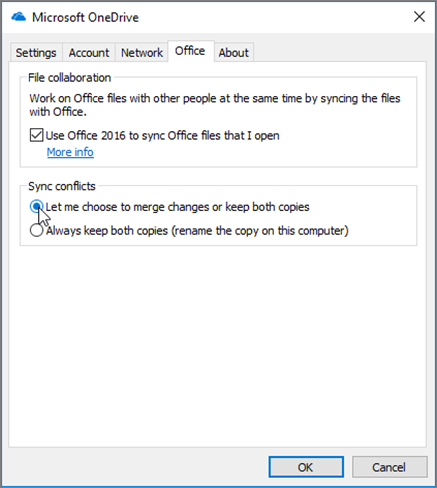
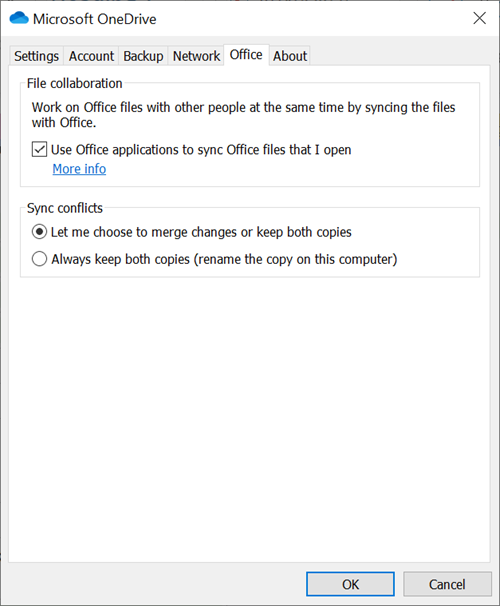
Updated screenshot

Changed region(s): [[0.0, 0.0, 1.0, 1.0]]

diff --git a/OneDrive/use-group-policy.md b/OneDrive/use-group-policy.md
@@ -543,7 +543,7 @@ This setting specifies what happens when conflicts occur between Office file ver
  
 If you enable this setting, users can decide if they want to merge changes or keep both copies. Users can also configure the sync app to always fork the file and keep both copies, as follows.
   
-![The Office tab of the Sync settings dialog](media/ec60b062-1979-446d-b431-bf0baede0f8b.png)
+![The Office tab in OneDrive sync app settings](media/ec60b062-1979-446d-b431-bf0baede0f8b.png)
   
 Enabling this policy sets the following registry key value to 1:
   
@@ -551,7 +551,7 @@ Enabling this policy sets the following registry key value to 1:
 
 If you disable this setting, the Sync conflicts setting on the Office tab is disabled, and when a sync conflict occurs, both copies of the file are kept.
   
-To enable this setting, you must enable [Coauthor and share in Office desktop apps](use-group-policy.md#coauthor-and-share-in-office-desktop-apps). For more info about the Office settings in the sync app, see [Use Office 2016 to sync Office files that I open](https://support.office.com/article/8a409b0c-ebe1-4bfa-a08e-998389a9d823).
+To enable this setting, you must enable [Coauthor and share in Office desktop apps](use-group-policy.md#coauthor-and-share-in-office-desktop-apps). For more info about the Office settings in the sync app, see [Use Office applications to sync Office files that I open](https://support.office.com/article/8a409b0c-ebe1-4bfa-a08e-998389a9d823).
   
 ### Coauthor and share in Office desktop apps
 <a name="EnableAllOcsiClients"> </a>
@@ -561,15 +561,15 @@ This setting lets multiple users use the Microsoft 365 Apps for enterprise, Offi
 > [!IMPORTANT]
 > We recommend keeping this setting enabled to make syncing faster and reduce network bandwidth. [See all our recommendations for configuring the sync app](ideal-state-configuration.md)
   
-If you enable or do not configure this setting, the **Office** tab appears in OneDrive sync settings, and **Use Office 2016 to sync Office files that I open** is selected, by default.
+If you enable or do not configure this setting, the **Office** tab appears in OneDrive sync settings, and **Use Office applications to sync Office files that I open** is selected, by default.
   
-![The Office tab in OneDrive sync app settings](media/c90cf228-c27e-4107-b4cf-2c0690a959a4.png)
+![The Office tab in OneDrive sync app settings](media/ec60b062-1979-446d-b431-bf0baede0f8b.png)
 
 Enabling this policy sets the following registry key value to 1:
   
 `[HKCU\SOFTWARE\Policies\Microsoft\OneDrive] "EnableAllOcsiClients"="dword:00000001"`
   
-If you disable this setting, the **Office** tab is hidden in the sync app, and coauthoring and in-app sharing for Office files is disabled. The **Users can choose how to handle Office files in conflict** setting acts as disabled, and when file conflicts occur, both copies of the file are kept. For more info about the settings in the sync app, see [Use Office 2016 to sync Office files that I open](https://support.office.com/article/8a409b0c-ebe1-4bfa-a08e-998389a9d823).
+If you disable this setting, the **Office** tab is hidden in the sync app, and coauthoring and in-app sharing for Office files is disabled. The **Users can choose how to handle Office files in conflict** setting acts as disabled, and when file conflicts occur, both copies of the file are kept. For more info about the settings in the sync app, see [Use Office applications to sync Office files that I open](https://support.office.com/article/8a409b0c-ebe1-4bfa-a08e-998389a9d823).
 
 ### Configure team site libraries to sync automatically
 <a name="AutoMountTeamSites"> </a> 
